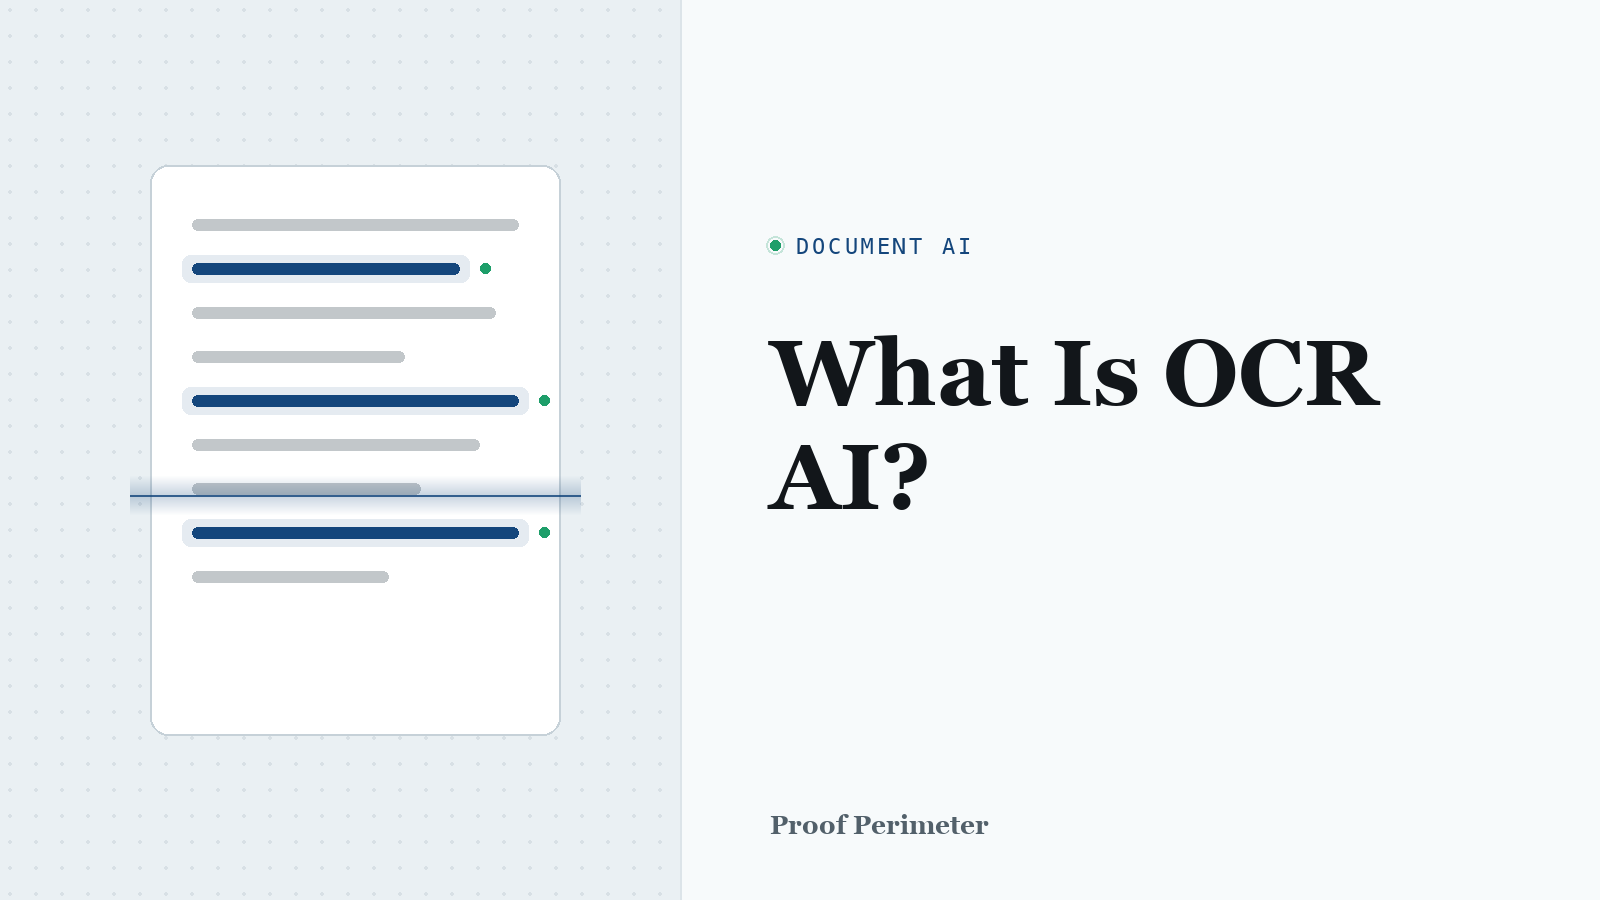
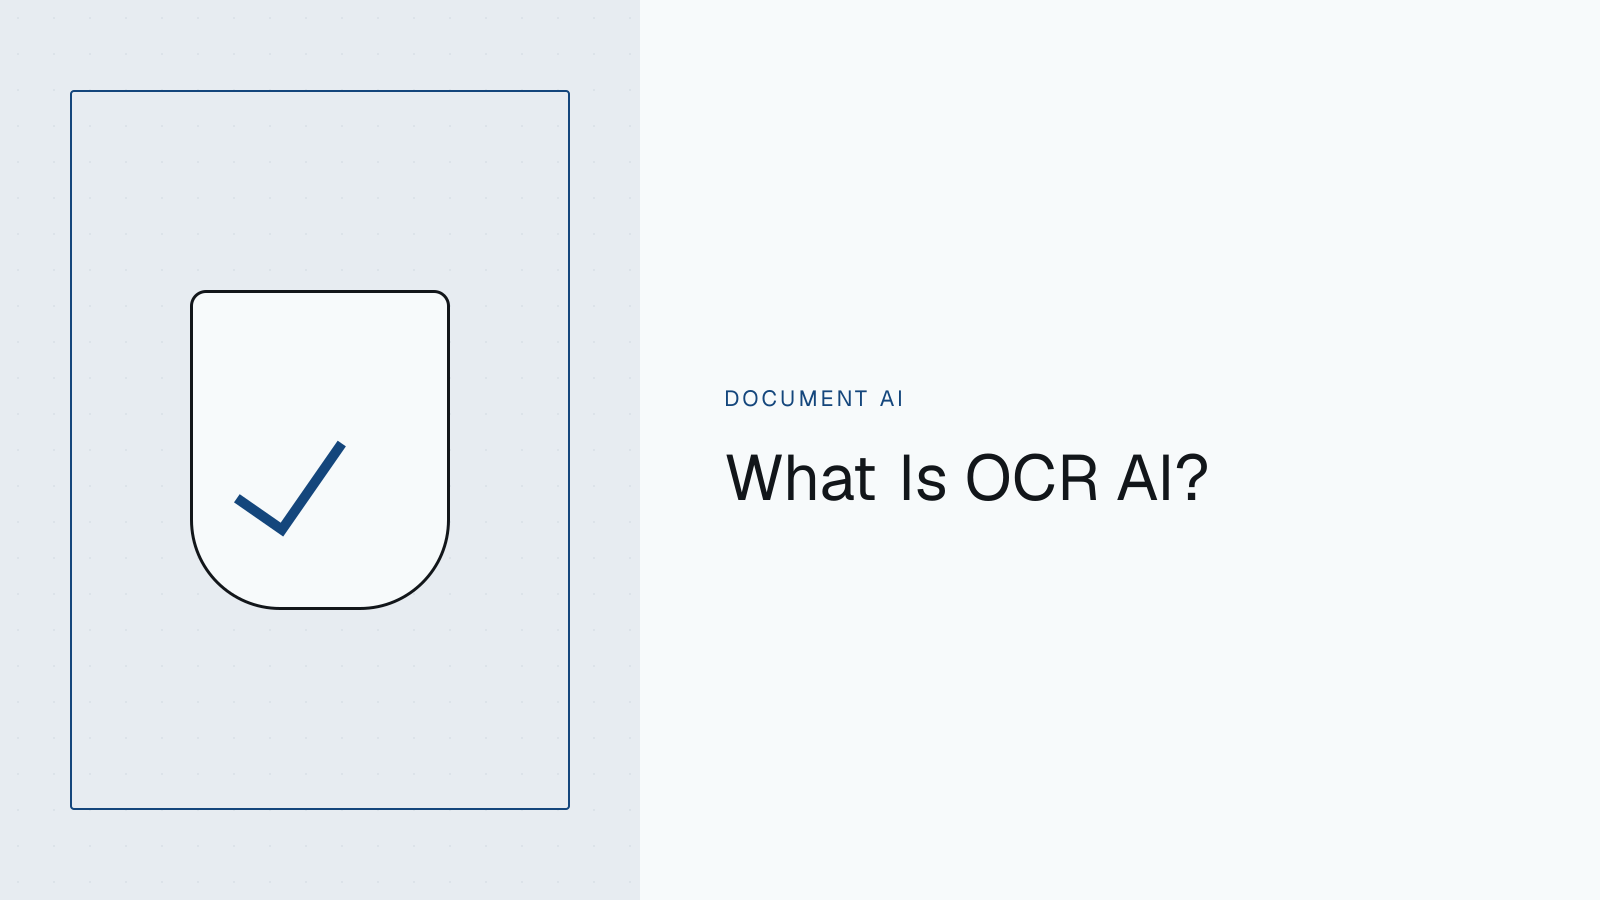
Publish "The Sovereign AI Gap" — Phase 1 pillar #4 (final pillar) (#4)
* Publish The Sovereign AI Gap (Phase 1 pillar #4, final pillar)

Completes Phase 1's flagship positioning pillar: the distinction between
data residency (where a document is stored) and inference residency
(where the AI model actually runs), grounded in DORA Article 28, the EU
AI Act's Annex III high-risk classification, and Gartner's 2026 sovereign
AI platform forecast.

Retroactively interlinks the three existing posts to this pillar per the
publishing strategy's pillar → cluster interlinking model, and checks off
the corresponding backlog item in docs/publishing-strategy.md §8.

Claude-Session: https://claude.ai/code/session_019Rwjg8DUcTeFqsRqcqvfdS

* Add flag-and-stars banner motif for sovereignty topics

Replaces the generic shield-check motif on the Sovereign AI Gap post's
banner with a flag-on-a-pole panel: "AI" centered, ringed by 12 stars,
evoking national/EU flag iconography — a better fit for a sovereignty
piece than the generic compliance shield. Wired into pickMotif() via a
sovereign/jurisdiction/residency keyword match so future posts in this
vein pick it up automatically.

Claude-Session: https://claude.ai/code/session_019Rwjg8DUcTeFqsRqcqvfdS

* Give blog banners a tinted left panel background

The left motif zone previously shared the same paper background as the
right (title) zone, so the split composition read as flat/blank at a
glance. Tints it with a low-alpha signal-blue wash instead, so the
[…]

diff --git a/docs/publishing-strategy.md b/docs/publishing-strategy.md
@@ -11,7 +11,7 @@ Proof Perimeter provides one workspace for the full document lifecycle: classifi
 | Asset | State |
 |---|---|
 | `/glossary` | **376 published MDX terms** (of 778 defined in `docs/seo-content/glossary.md`) — a large definitional/programmatic-SEO base already live, covering everything from "Agentic OCR" to "Zonal OCR" |
-| `/blog` | **Live**, MDX-powered, built and shipped since this strategy was first drafted (see §4 for the implementation). **3 published posts** so far: "What Is OCR AI?" (`content/blog/what-is-ocr-ai.mdx`) — an educational explainer sitting in Cluster A/G territory (head-term "document ai"/"ocr ai" education, OCR-fundamentals framing) — "KYC Document Automation: From Manual Review to AI-Assisted Onboarding" (`content/blog/kyc-document-automation.mdx`) — the first Phase 1 pillar page (Cluster A/E), anchoring "KYC & Onboarding Document AI" — and "AI Bank Statement Analysis for Loan Underwriting: Automating Income Verification" (`content/blog/ai-bank-statement-analysis-loan-underwriting.mdx`) — the second Phase 1 pillar page (Cluster D), anchoring "Sovereign AI for Lending Document Processing". All three fold the Proof Perimeter pitch into a body section rather than a bolted-on close. 2 of 4 Phase 1 pillars and all comparison/regulatory content remain unpublished. |
+| `/blog` | **Live**, MDX-powered, built and shipped since this strategy was first drafted (see §4 for the implementation). **4 published posts** so far: "What Is OCR AI?" (`content/blog/what-is-ocr-ai.mdx`) — an educational explainer sitting in Cluster A/G territory (head-term "document ai"/"ocr ai" education, OCR-fundamentals framing) — "KYC Document Automation: From Manual Review to AI-Assisted Onboarding" (`content/blog/kyc-document-automation.mdx`) — the first Phase 1 pillar page (Cluster A/E), anchoring "KYC & Onboarding Document AI" — "AI Bank Statement Analysis for Loan Underwriting: Automating Income Verification" (`content/blog/ai-bank-statement-analysis-loan-underwriting.mdx`) — the second Phase 1 pillar page (Cluster D), anchoring "Sovereign AI for Lending Document Processing" — and "The Sovereign AI Gap: Why Data Residency Doesn't Guarantee Inference Residency" (`content/blog/sovereign-ai-gap.mdx`) — the fourth Phase 1 pillar page (Cluster E), the flagship positioning piece every other page links back to. All four fold the Proof Perimeter pitch into a body section rather than a bolted-on close. Only the third Phase 1 pillar ("Claims Processing Document AI") and all comparison/regulatory content remain unpublished. |
 | Technical SEO | Strong groundwork: `Organization`/`WebSite`/`FAQPage`/`BlogPosting`/`Blog`/`BreadcrumbList` JSON-LD, `llms.txt`, AI-crawler-friendly `robots.ts` (GPTBot, ClaudeBot, PerplexityBot, Google-Extended, CCBot explicitly allowed), sitemap auto-generated from both glossary terms and blog posts (`app/sitemap.ts` now wires in `getAllPosts()` alongside `getAllTerms()`) |
 | Known technical gaps | Per `docs/seo-content/seo-audit.md`: canonical host inconsistency (`www.` vs bare domain), missing `SoftwareApplication` schema, thin regional-regulator content, no dedicated per-region landing pages (DORA, MAS, RBI, SAMA) |
 | Positioning | Proof Perimeter is a document AI platform for processing highly regulated, high-risk documents. Proof Perimeter's proprietary, fine-tuned Document AI model. Per internal benchmarks: 20% higher accuracy and 50% lower token consumption than general frontier models on document-extraction tasks  — targeting UK/EU (DORA, EU AI Act), Gulf (SAMA, CBUAE), India (RBI, DPDP), Singapore (MAS) |
@@ -391,7 +391,7 @@ How to use it:
 - [ ] SOC 2 and Document AI: What Controls Actually Matter for Vendor Due Diligence
 - [ ] GDPR-Compliant Document Extraction: Data Minimization in Practice
 - [ ] Provenance and Explainability in AI Document Decisions: What Regulators Ask For
-- [ ] The Sovereign AI Gap: Why Data Residency Doesn't Guarantee Inference Residency *(flagship/pillar anchor — see Phase 1)*
+- [x] The Sovereign AI Gap: Why Data Residency Doesn't Guarantee Inference Residency *(flagship/pillar anchor — see Phase 1)* — published as `sovereign-ai-gap` (2026-07-21), Phase 1 pillar #4 (final pillar); primary keyword "sovereign AI gap" (topic candidate, nominal vol 30, intent_fit 3 as the flagship positioning term — see §6), unchecked and flagged as flagship in this list, so picked over remaining Cluster D/E candidates at the same nominal score
 - [ ] Transaction Monitoring and Document AI: Where the Two Systems Meet
 - [ ] Suspicious Activity Report (SAR) Prep: What Can and Can't Be Automated
 